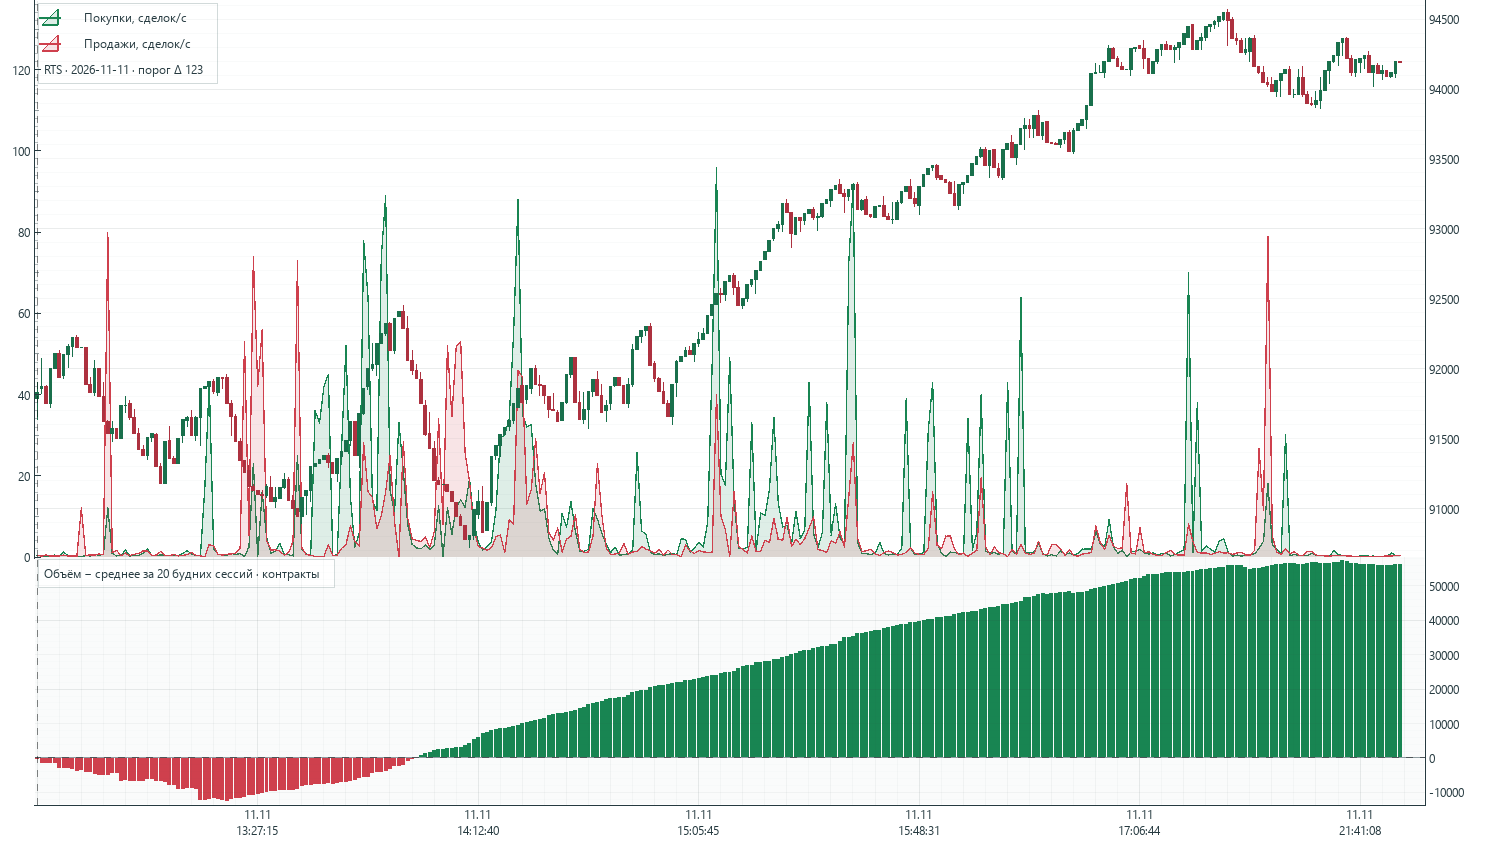
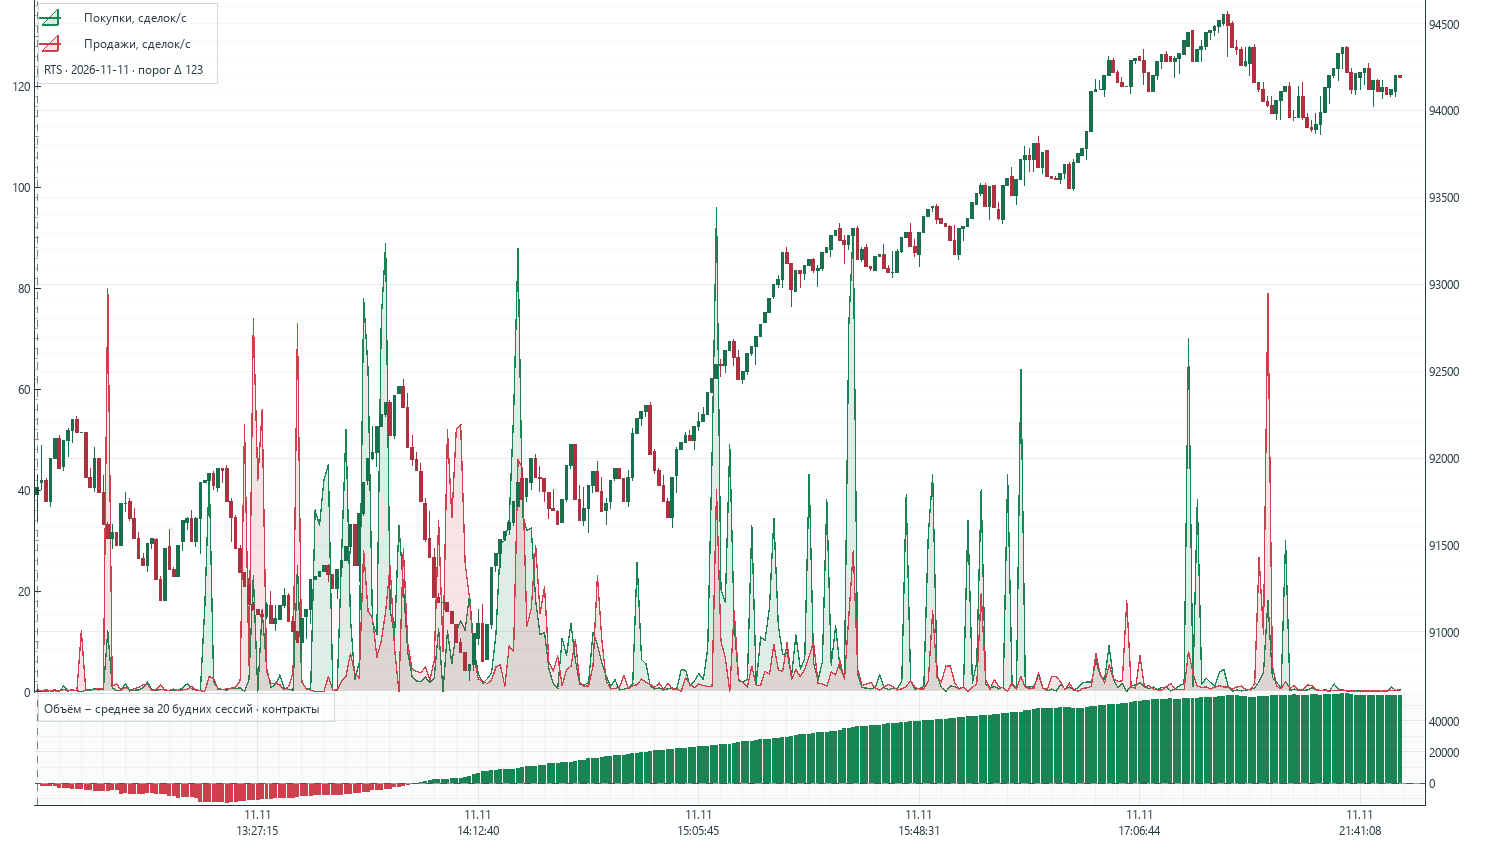
update 5 files

diff --git a/tests/test_standalone_chart.py b/tests/test_standalone_chart.py
@@ -1,7 +1,7 @@
 r"""Проверяет автономный запуск графика, окно Qt и экспорт PNG при локали ru_RU.
 
-Запускает график напрямую и как модуль. На временных ZIP проверяет, что
-красные столбцы разницы находятся ниже зелёных на нижней панели PNG.
+Запускает график напрямую и как модуль. Проверяет высоту панели индикатора
+при открытии окна и расположение цветных столбцов в PNG на временных ZIP.
 Запуск из корня проекта:
     .\.venv\Scripts\python.exe -m unittest discover -s tests -p test_standalone_chart.py -v
 """
@@ -40,7 +40,7 @@ class StandaloneChartTests(unittest.TestCase):
                     self.assertIn("--input-root", result.stdout)
 
     def test_russian_locale_allows_window_and_png(self):
-        """Проверяет окно и цвета знаковых столбцов в PNG при русской локали."""
+        """Проверяет высоту панели в окне и цвета столбцов в PNG при русской локали."""
         project = Path(__file__).resolve().parents[1]
         with TemporaryDirectory() as temporary:
             root = Path(temporary)
@@ -70,9 +70,12 @@ if "--png" not in sys.argv:
     app = QApplication([])
 
     def close_window():
-        """Подтверждает, что окно RTS открыто, и завершает цикл Qt."""
-        if any(window.isVisible() and "RTS" in window.windowTitle() for window in app.topLevelWidgets()):
-            print("RTS window shown", flush=True)
+        """Выводит долю высоты нижней панели окна RTS и завершает цикл Qt."""
+        for window in app.topLevelWidgets():
+            if window.isVisible() and "RTS" in window.windowTitle():
+                price, indicator = window.axs
+                print(indicator.height() / (price.height() + indicator.height()), flush=True)
+                break
         app.quit()
 
     QTimer.singleShot(0, close_window)
@@ -99,7 +102,7 @@ raise SystemExit(result)
                         picture = QImage(str(png))
                         positive, negative = QColor(BUY_COLOR).rgb(), QColor(SELL_COLOR).rgb()
                         rows = {positive: set(), negative: set()}
-                        for y in range(picture.height() * 2 // 3, picture.height() - 45, 3):
+                        for y in range(picture.height() * 5 // 6, picture.height() - 45, 3):
                             for x in range(40, picture.width() - 80, 4):
                                 pixel = picture.pixel(x, y)
                                 if pixel in rows:
@@ -108,4 +111,5 @@ raise SystemExit(result)
                         self.assertTrue(rows[negative])
                         self.assertLessEqual(max(rows[positive]), min(rows[negative]))
                     else:
-                        self.assertIn("RTS window shown", result.stdout)
+                        fraction = float(result.stdout.strip())
+                        self.assertAlmostEqual(fraction, 1 / 6, delta=0.035)

diff --git a/finam_delta_bar_chart/chart.py b/finam_delta_bar_chart/chart.py
@@ -7,6 +7,7 @@ r"""Строит график адаптивных дельта-баров из 
 Для среднего объёма и порога дельты берёт одни и те же 20 предыдущих будних
 сессий со сделками. Положительная разница показана зелёным над нулём,
 отрицательная — красным под нулём. При нуле столбец отсутствует.
+При открытии графика и экспорте PNG нижней панели отводится около одной шестой высоты.
 Каждая рассчитанная сессия сохраняется в delta_bar_finam_RTS/chart.sqlite3 или
 delta_bar_finam_MIX/chart.sqlite3 под корнем архивов с полем volume_diff.
 Повторный запуск читает готовые дни из базы. Консоль показывает ход загрузки.
@@ -26,6 +27,8 @@ delta_bar_finam_MIX/chart.sqlite3 под корнем архивов с поле
     .\.venv\Scripts\python.exe finam_delta_bar_chart\chart.py --backtest --symbol MIX --trades mix.csv
     .\.venv\Scripts\python.exe finam_delta_bar_chart\chart.py --start 2026-09-01 --symbol RTS
     .\.venv\Scripts\python.exe finam_delta_bar_chart\chart.py --start 2026-09-01 --symbol MIX
+    .\.venv\Scripts\python.exe finam_delta_bar_chart\chart.py --backtest --symbol RTS --start 2026-09-01 --trades rts.csv
+    .\.venv\Scripts\python.exe finam_delta_bar_chart\chart.py --backtest --symbol MIX --start 2026-09-01 --trades mix.csv
 """
 
 import argparse
@@ -264,6 +267,7 @@ def load_range(cache, symbol, start, end, progress):
 def show_chart(bars, symbol, png=None):
     """Показывает свечи bars инструмента symbol, интенсивности и столбцы разницы объёмов.
 
+Нижней панели отводится около одной шестой высоты графика.
     При заданном пути png сохраняет изображение вместо открытия окна.
     Загружает finplot с поддержкой текущей локали Windows.
     """
@@ -324,6 +328,8 @@ def show_chart(bars, symbol, png=None):
     fplt.grid_alpha = 0.10
     fplt.candle_bull_color = fplt.candle_bull_body_color = "#19704c"
     fplt.candle_bear_color = fplt.candle_bear_body_color = "#ad313f"
+    # Вес 5 у ценовой панели и 1 у индикатора дают долю 1/6 вместо штатной 1/3.
+    fplt.axis_height_factor = {0: 5}
     fplt.autoviewrestore(False)
     app = pg.mkQApp()
     if png and sys.platform == "win32":

diff --git a/tests/README.md b/tests/README.md
@@ -14,7 +14,7 @@
 .\.venv\Scripts\python.exe -m unittest discover -s tests -p test_finam_delta_chart.py -v
 ```
 
-`test_standalone_chart.py` переносит код графика во временный каталог и проверяет запуск с `--help` напрямую и через `python -m` без соседних проектов. Отдельная проверка имитирует `ru_RU` в дочерних процессах, подтверждает открытие окна Qt и сверяет цвета и расположение знаковых столбцов в экспортированном PNG на тестовых ZIP.
+`test_standalone_chart.py` переносит код графика во временный каталог и проверяет запуск с `--help` напрямую и через `python -m` без соседних проектов. Отдельная проверка имитирует `ru_RU` в дочерних процессах, измеряет долю высоты нижней панели в открытом окне Qt и сверяет цвета и расположение знаковых столбцов в экспортированном PNG на тестовых ZIP.
 
 ```powershell
 .\.venv\Scripts\python.exe -m unittest discover -s tests -p test_standalone_chart.py -v

diff --git a/finam_delta_bar_chart/README.md b/finam_delta_bar_chart/README.md
@@ -4,6 +4,8 @@
 
 ![RTS за 11 ноября 2026 года, 310 свечей](RTS_2026-11-11.png)
 
+В обычном окне графика и в PNG нижняя панель занимает около одной шестой общей высоты графика.
+
 ## Запуск
 
 `chart.py` — единственный запускаемый скрипт в этой папке. Вспомогательные модули находятся в [`src`](src/README.md).
